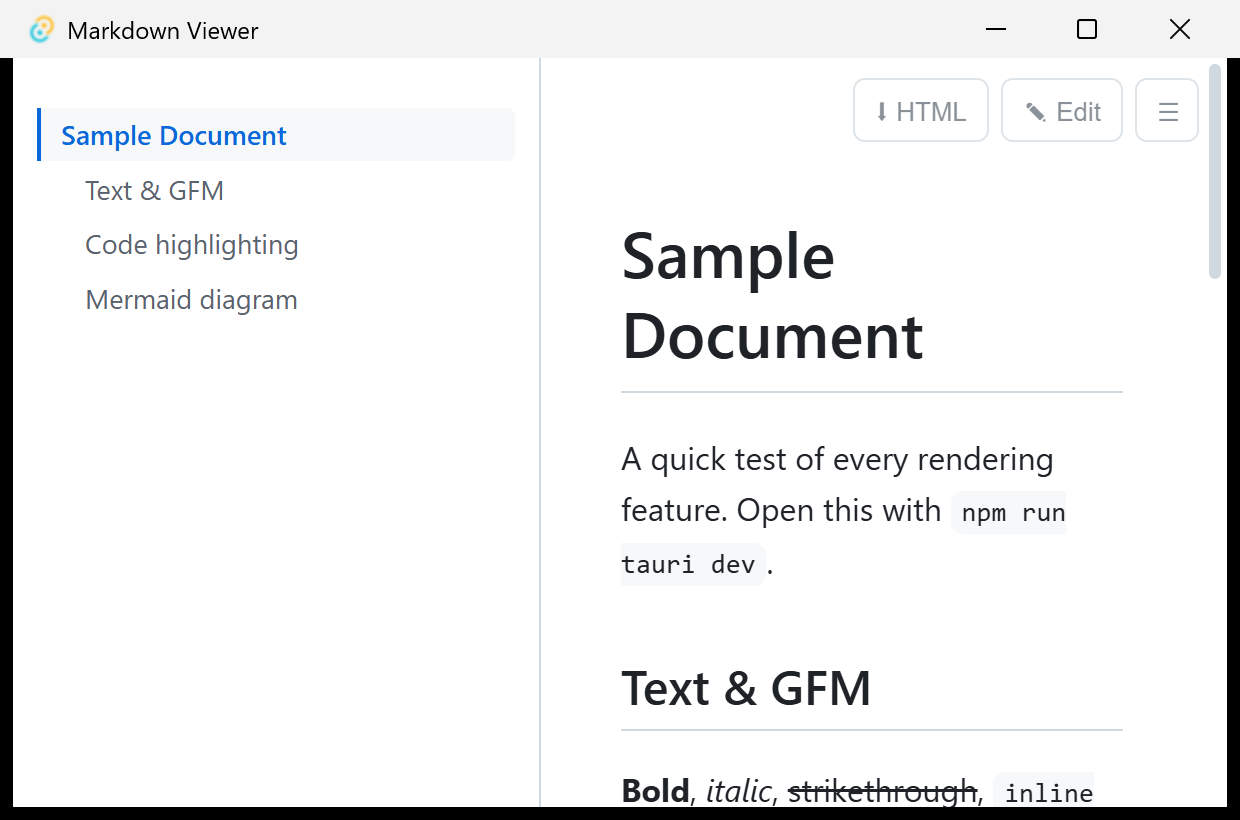
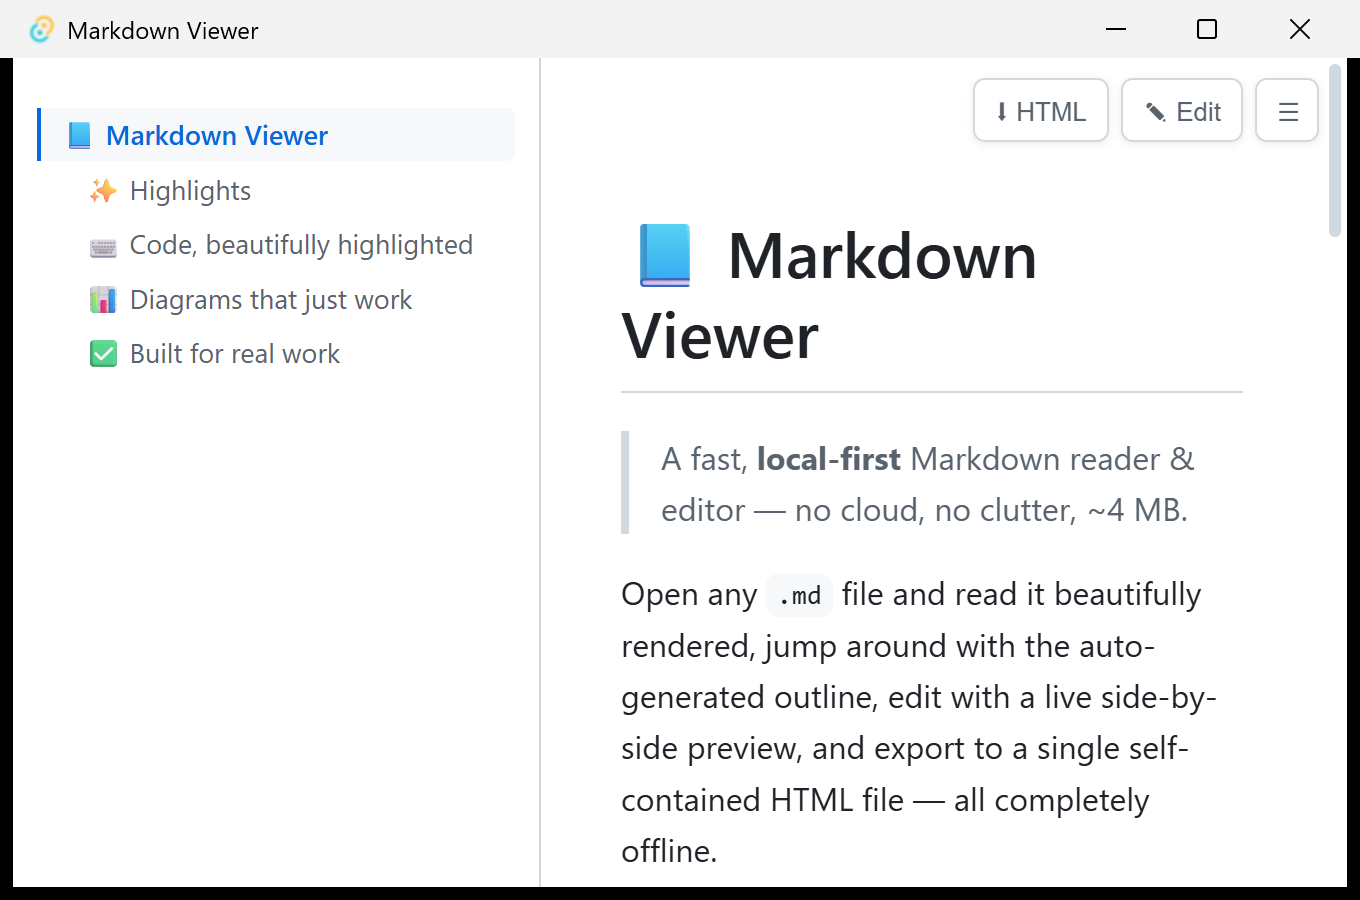
docs: nicer, larger screenshots; add --edit launch flag & toolbar polish
- Replace cramped screenshots with spacious 1360/1740-wide captures
- Use a polished demo document for the shots
- Add --edit flag to open straight into edit mode (used for deterministic capture)
- Make toolbar buttons opaque (no text bleed-through)

diff --git a/src/main.ts b/src/main.ts
@@ -426,6 +426,10 @@ async function init(): Promise<void> {
   const initial = await invoke<string | null>("get_initial_path");
   if (initial) {
     await openFile(initial);
+    // Optional `--edit` flag opens straight into edit mode.
+    if (await invoke<boolean>("start_in_edit")) {
+      setEditMode(true);
+    }
   }
 }
 

diff --git a/src/styles.css b/src/styles.css
@@ -115,11 +115,11 @@ body {
   color: var(--muted);
   font-size: 13px;
   cursor: pointer;
-  opacity: 0.7;
+  box-shadow: 0 1px 4px rgba(0, 0, 0, 0.08);
 }
 #toolbar button:hover {
-  opacity: 1;
   color: var(--fg);
+  border-color: var(--accent);
 }
 #toc-toggle {
   width: 32px;

diff --git a/src-tauri/src/lib.rs b/src-tauri/src/lib.rs
@@ -20,6 +20,12 @@ fn path_from_args() -> Option<PathBuf> {
         .find(|p| p.extension().map(|e| e.eq_ignore_ascii_case("md")).unwrap_or(false) && p.exists())
 }
 
+/// Whether the app was launched with `--edit` (open straight into edit mode).
+#[tauri::command]
+fn start_in_edit() -> bool {
+    std::env::args().any(|a| a == "--edit")
+}
+
 /// Returns the file path the app was opened with, if any.
 #[tauri::command]
 fn get_initial_path(state: State<AppState>) -> Option<String> {
@@ -92,6 +98,7 @@ pub fn run() {
         .manage(state)
         .invoke_handler(tauri::generate_handler![
             get_initial_path,
+            start_in_edit,
             read_md,
             write_md,
             watch_file

diff --git a/docs/demo.md b/docs/demo.md
@@ -1,0 +1,50 @@
+# 📘 Markdown Viewer
+
+> A fast, **local-first** Markdown reader & editor — no cloud, no clutter, ~4 MB.
+
+Open any `.md` file and read it beautifully rendered, jump around with the
+auto-generated outline, edit with a live side-by-side preview, and export to a
+single self-contained HTML file — all completely offline.
+
+## ✨ Highlights
+
+| Feature        | What you get                                   |
+| -------------- | ---------------------------------------------- |
+| **Reading**    | Clean typography, dark mode, navigable outline |
+| **Editing**    | Split editor with synced-scroll live preview   |
+| **Diagrams**   | Mermaid flowcharts rendered inline             |
+| **Export**     | One-click, self-contained HTML                 |
+| **Footprint**  | ~4 MB binary, shares the system WebView        |
+
+## ⌨️ Code, beautifully highlighted
+
+```ts
+// Render Markdown in milliseconds — fully offline.
+import MarkdownIt from "markdown-it";
+
+const md = new MarkdownIt({ html: true, linkify: true, typographer: true });
+
+export function render(source: string): string {
+  return md.render(source);
+}
+```
+
+## 📊 Diagrams that just work
+
+```mermaid
+flowchart LR
+    A[Open .md] --> B{Has a diagram?}
+    B -- yes --> C[Render Mermaid]
+    B -- no --> D[Instant preview]
+    C --> E[Beautiful output]
+    D --> E
+```
+
+## ✅ Built for real work
+
+- [x] GitHub-Flavored Markdown — tables, task lists, ~~strikethrough~~
+- [x] Syntax highlighting for 100+ languages
+- [x] Live reload when the file changes on disk
+- [ ] Heavyweight Electron bloat — *nope, not here*
+
+> **Tip:** press `Ctrl+E` to edit, `Ctrl+S` to save, and `Ctrl+\` to toggle the outline.